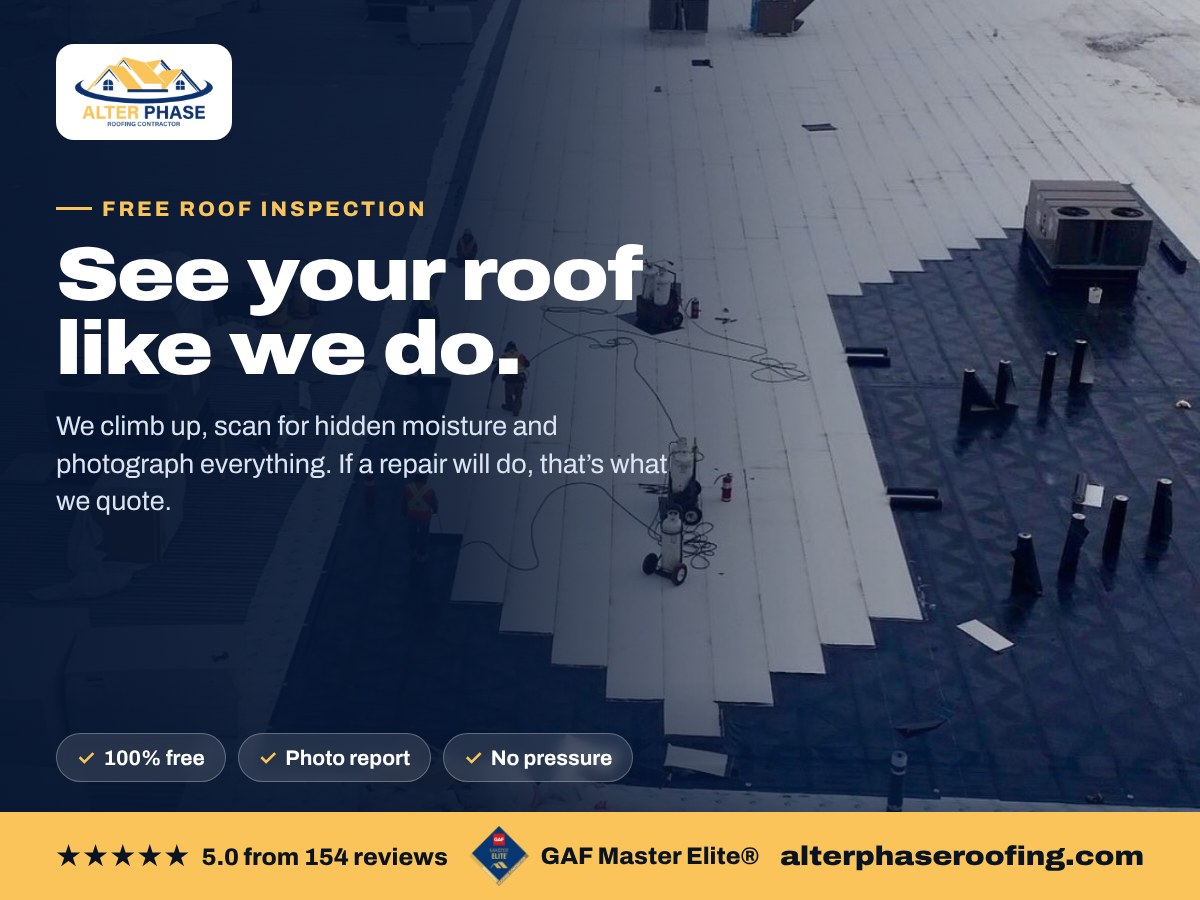
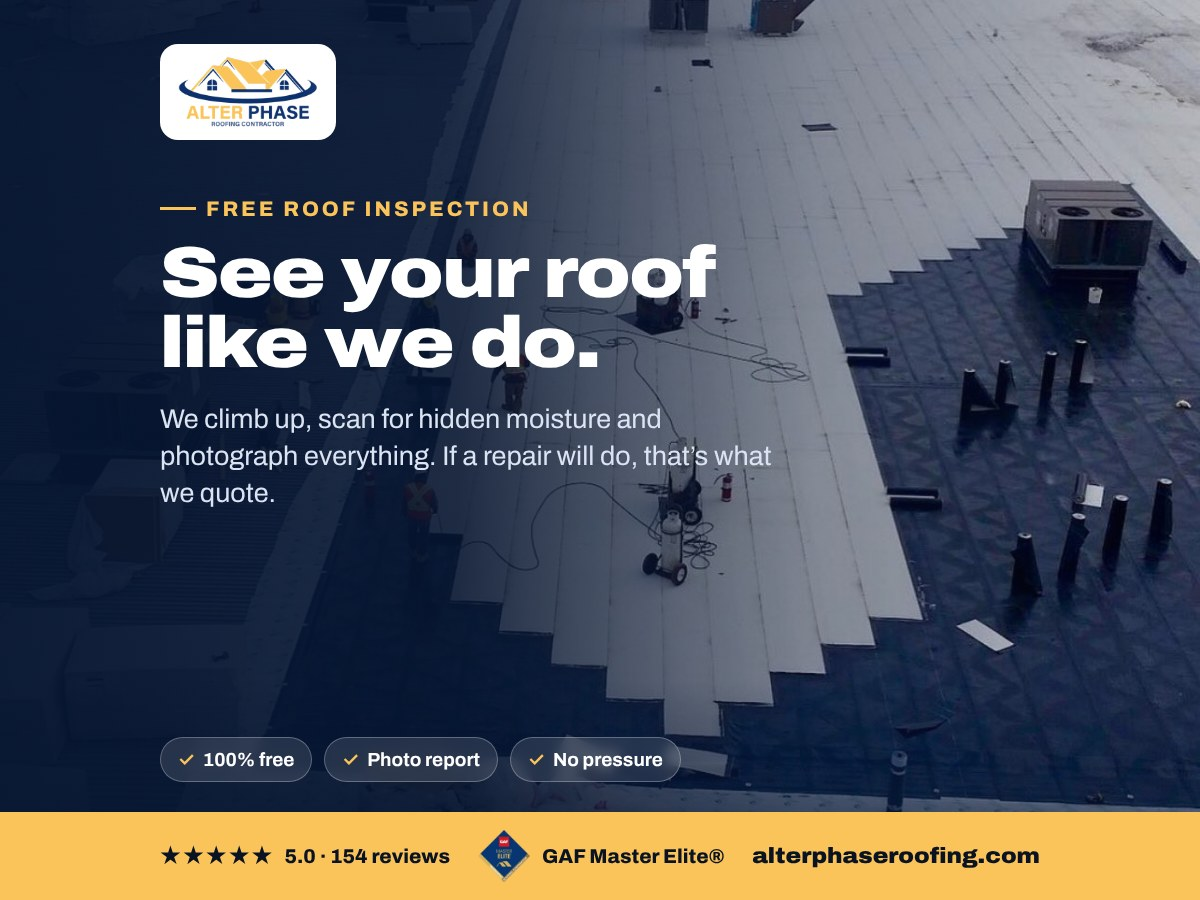
GBP post images: keep text inside the centered square crop area
Claude-Session: https://claude.ai/code/session_01MwzSwr7r5xbRA7naZqiTc6

diff --git a/marketing/gbp-posts/POSTS.md b/marketing/gbp-posts/POSTS.md
@@ -8,6 +8,7 @@ Nine ready-to-publish posts for **Alter Phase Roofing Contracting**. Each has an
 - No phone numbers in the text or images. Use the **Call now** button instead.
 - No ALL CAPS and no gimmicky symbols.
 - Each post is under 1,500 characters.
+- Images are 1200×900 JPGs (well within 10 KB–5 MB), with all text inside the centered square, so nothing is cut off when Google crops a post to a square.
 
 **Tracking:** each link carries `utm_source=gbp`, so leads from these posts show "gbp / organic" as the source in your lead emails and in GA4.
 
